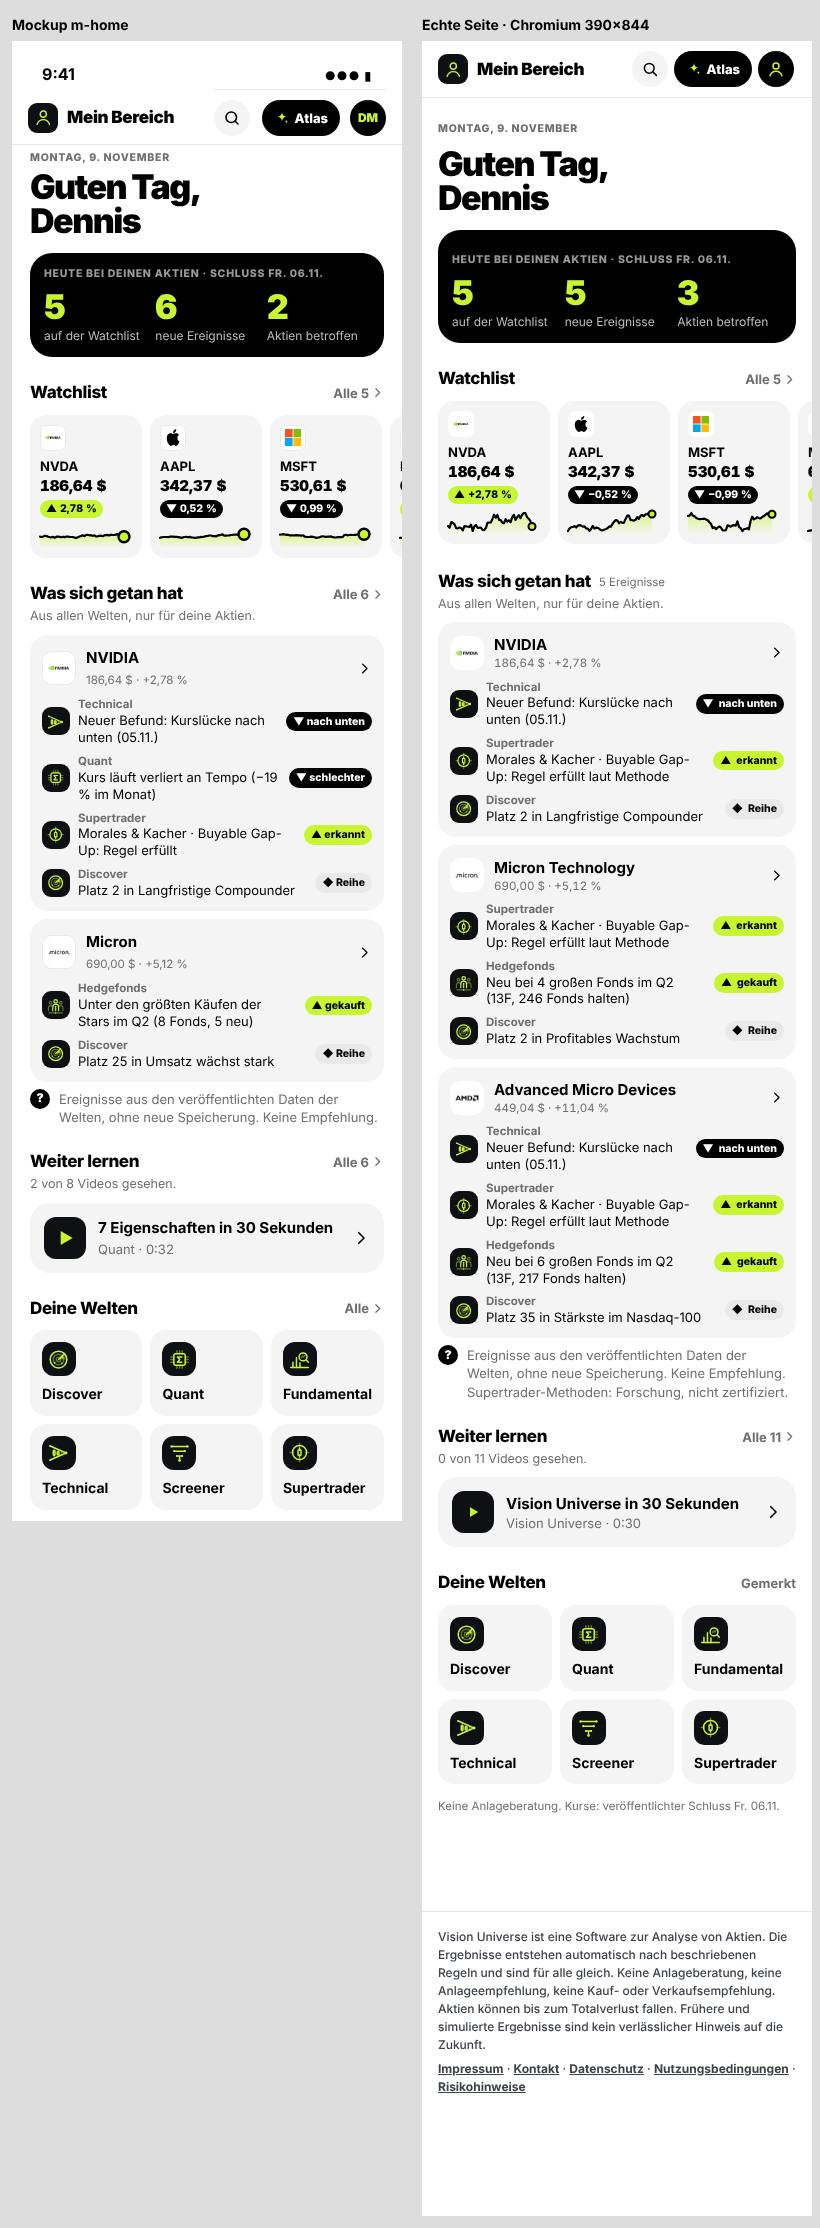
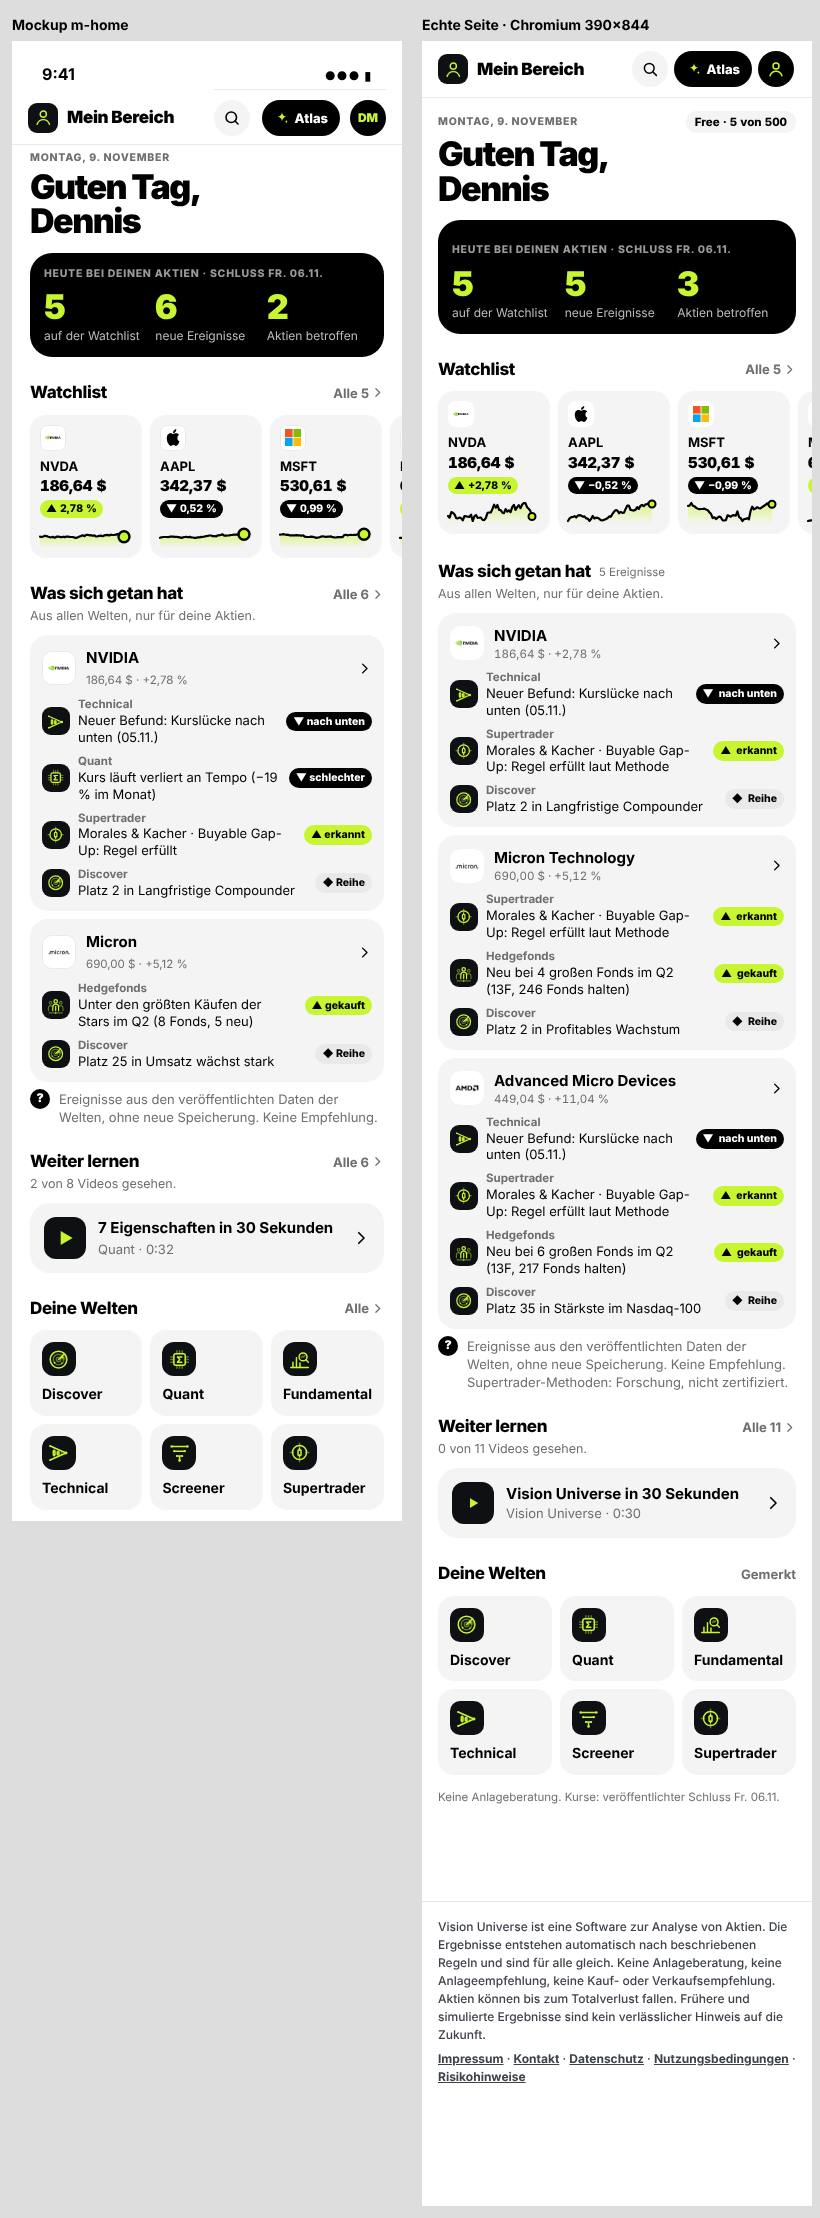
Mein Dashboard: Tarif-Marke und Entfernen mit Rückgängig im Bearbeiten-Modus; Konto-Reise auf den Streifen umgestellt
Claude-Session: https://claude.ai/code/session_01DVwZC4k9H5gNUZRveqEwG1

diff --git a/mein-dashboard/dashboard.js b/mein-dashboard/dashboard.js
@@ -184,6 +184,10 @@
     $('md-eyebrow').textContent = DAYS[now.getDay()] + ', ' + now.getDate() + '. ' + MONTHS[now.getMonth()];
     h.textContent = greeting(now.getHours()) + (name ? ',' : '');
     if (name) { h.appendChild(el('br')); h.appendChild(document.createTextNode(name)); }
+    // Tarif-Marke „Free · 5 von 500“ klein neben dem Datum (Entscheidung beim Bauen, HANDOVER).
+    var plan = (me.entitlements && me.entitlements.plan_id) || 'free', limit = ctx.limits && ctx.limits.items;
+    $('md-plan').textContent = ({free: 'Free', plus: 'Plus', pro: 'Pro'}[plan] || plan) + ' · ' + ctx.items.length + (limit ? ' von ' + limit : '');
+    $('md-plan').hidden = false;
   }});
 
   function views() {
@@ -234,12 +238,22 @@
       } else {
         card.appendChild(el('span', {className: 'md-wl-x', text: v.identity && v.identity.reasonText ? v.identity.reasonText : 'kein Kurs'}));
       }
-      strip.appendChild(el('li', {}, [card]));
+      var li = el('li', {}, [card]);
+      // Bearbeiten (Suche offen): „×“ entfernt eine Aktie, mit „Rückgängig“ wie bisher.
+      if (!$('md-find').hidden) {
+        var remove = el('button', {className: 'md-remove', type: 'button', 'aria-label': (v.ticker || 'Aktie') + ' aus der Watchlist entfernen', text: '×'});
+        remove.addEventListener('click', function () { removeItem(v, remove); });
+        li.appendChild(remove);
+      }
+      strip.appendChild(li);
     });
-    var add = el('button', {className: 'md-wl md-wl--add', type: 'button', 'aria-controls': 'md-find', 'aria-expanded': String(!$('md-find').hidden)}, [el('i', {text: '+', 'aria-hidden': 'true'}), 'Aktie hinzufügen']);
+    var editing = !$('md-find').hidden;
+    var add = el('button', {className: 'md-wl md-wl--add', type: 'button', id: 'md-edit', 'aria-controls': 'md-find', 'aria-expanded': String(editing)},
+      [el('i', {text: editing ? '✓' : '+', 'aria-hidden': 'true'}), editing ? 'Fertig' : 'Aktie hinzufügen', el('small', {text: editing ? '' : 'oder entfernen'})]);
     add.addEventListener('click', function () {
-      var f = $('md-find'); f.hidden = !f.hidden; add.setAttribute('aria-expanded', String(!f.hidden));
-      if (!f.hidden) $('md-add').focus();
+      $('md-find').hidden = editing;
+      render(['watchlist']);
+      if (!editing) $('md-add').focus(); else $('md-edit').focus();
     });
     strip.appendChild(el('li', {}, [add]));
   }});
@@ -291,6 +305,17 @@
     card.appendChild(chev(18));
   }});
 
+  function removeItem(v, btn) {
+    btn.disabled = true;
+    return A.post('/v1/watchlist/items/remove', {instrumentId: v.instrumentId}).then(function (r) {
+      btn.disabled = false;
+      if (!r.ok) return notice(A.message(r.state), 'error');
+      ctx.items = ctx.items.filter(function (i) { return i.instrumentId !== v.instrumentId; });
+      forgetButtonCache();
+      notice((v.ticker || 'Aktie') + ' entfernt.', 'ok', {label: 'Rückgängig', run: function () { addItem({instrumentId: v.instrumentId, ticker: v.ticker}); }});
+      return refresh();
+    });
+  }
   function addItem(hit, input) {
     return A.post('/v1/watchlist/items', {instrumentId: hit.instrumentId, ticker: hit.ticker}).then(function (r) {
       if (!r.ok) return notice(A.message(r.state), 'error');
@@ -301,7 +326,7 @@
   }
   // Nach einer Änderung der Watchlist: Kurse, Bewegungen und Ereignisse neu, dann alle Bereiche neu zeichnen.
   function refresh() {
-    return loadItems().then(loadSummary).then(loadEvents).then(function () { render(['today', 'watchlist', 'events', 'local']); });
+    return loadItems().then(loadSummary).then(loadEvents).then(function () { render(['greeting', 'today', 'watchlist', 'events', 'local']); });
   }
 
   // Leerzustand: beliebte Kuerzel als Chips, ein Tipp nimmt sie auf (gleicher Weg wie die Suche).

diff --git a/mein-dashboard/dashboard.css b/mein-dashboard/dashboard.css
@@ -109,3 +109,13 @@ html[data-md-view=gespeichert] .md-only-watch,html[data-md-view=watchlist] .md-o
 .md-play svg{width:18px;height:18px}
 :root[data-theme=dark] .md-today{background:var(--vu-card);box-shadow:inset 0 0 0 1px var(--vu-hair)}
 .md-find+.md-empty{margin-top:10px}
+.md-eyerow{display:flex;align-items:center;justify-content:space-between;gap:10px}
+.md-eyerow .vu-ltag{margin:0}
+.md-plan{flex:none;padding:3px 9px;border-radius:999px;background:var(--vu-card);font-size:11.5px;font-weight:800;font-variant-numeric:tabular-nums}
+html[data-md-view=gespeichert] .md-plan{display:none}
+.md-strip>li{position:relative}
+.md-remove{position:absolute;top:4px;right:4px;width:36px;height:36px;min-width:36px!important;min-height:36px!important;border:0;border-radius:50%;background:var(--vu-ink);color:var(--vu-inv);font:900 15px/1 var(--vu-font);cursor:pointer;display:grid;place-items:center}
+.md-remove::after{content:"";position:absolute;inset:-4px}
+.md-remove[disabled]{opacity:.6;cursor:wait}
+.md-remove:focus-visible{outline:2px solid var(--vu-focus-ring);outline-offset:2px}
+.md-wl--add small{font-size:11px;font-weight:600;color:var(--vu-mute)}

diff --git a/mein-dashboard/index.html b/mein-dashboard/index.html
@@ -19,7 +19,7 @@
      Watchlist-Streifen, Was sich getan hat, Weiter lernen, Deine Welten. Platz 2 der Leiste: Gespeichert unter #/gespeichert. -->
 <main class="ka md" id="main">
 <header class="md-head">
-<p class="vu-ltag" id="md-eyebrow">Mein Dashboard</p>
+<div class="md-eyerow"><p class="vu-ltag" id="md-eyebrow">Mein Dashboard</p><span class="md-plan" id="md-plan" hidden></span></div>
 <h1 class="vu-lt" id="md-hello">Mein Dashboard</h1>
 <p class="vu-lead md-only-saved">Was du in den Welten gemerkt hast. Übernimm es in deine Watchlist, dann ist es auf jedem Gerät da.</p>
 </header>

diff --git a/docs/accounts/NUTZERFUEHRUNG.md b/docs/accounts/NUTZERFUEHRUNG.md
@@ -9,7 +9,7 @@ Datenbank, keine neue Datenhaltung, Passwortmaske und Registrierung unverändert
 | Bereich | Adresse | Rolle | Inhalt |
 |---|---|---|---|
 | Willkommensseite | `/willkommen/` | Einstieg nach jeder Anmeldung, nach der E-Mail-Bestätigung und nach bestätigter Zahlung | unverändert: Video, Story-Videos, Produktwelten, Neuigkeiten. **Neu:** Zeile „Mein Dashboard“ (Watchlist und gespeicherte Aktien) direkt unter dem Video, daneben abgesetzt „Konto“; kurze Rückmeldung bei `?konto=verified` bzw. `?konto=pro` |
-| Mein Dashboard | `/mein-dashboard/` | persönlicher Investment-Bereich | Konzept [mein-bereich-2026-11](../design/mein-bereich-2026-11/HANDOVER.md), Screen `m-home`: Begrüßung mit Datum, „Heute bei deinen Aktien“ (auf der Watchlist, neue Ereignisse, Aktien betroffen), Watchlist als Streifen (hinzufügen über „+ Aktie“, Link zur Aktie; entfernen in der Detailansicht), „Was sich getan hat“ (Ereignisse der Welten je Aktie), „Weiter lernen“ (nächstes ungesehenes Video der Willkommensseite), „Deine Welten“; unter `#/gespeichert` „Auf diesem Gerät gemerkt“ (lokale Listen, Übernahme auf Klick) |
+| Mein Dashboard | `/mein-dashboard/` | persönlicher Investment-Bereich | Konzept [mein-bereich-2026-11](../design/mein-bereich-2026-11/HANDOVER.md), Screen `m-home`: Begrüßung mit Datum, „Heute bei deinen Aktien“ (auf der Watchlist, neue Ereignisse, Aktien betroffen), Tarif-Marke, Watchlist als Streifen (Link zur Aktie; „+ Aktie hinzufügen oder entfernen“ öffnet Suche und „×“ mit Rückgängig), „Was sich getan hat“ (Ereignisse der Welten je Aktie), „Weiter lernen“ (nächstes ungesehenes Video der Willkommensseite), „Deine Welten“; unter `#/gespeichert` „Auf diesem Gerät gemerkt“ (lokale Listen, Übernahme auf Klick) |
 | Mein Konto | `/konto/` | Einstellungen und Vertrag | persönliche Daten, E-Mail, Passwort und Sicherheit, Tarif, Abonnement, Rechnungen, Zahlungsmethoden (Kundenportal), Kündigung, Datenschutz und Datenexport |
 
 `/dashboard/` ist das bestehende Research-Dashboard (V6.3) und bleibt unverändert; deshalb liegt der persönliche Bereich unter

diff --git a/docs/design/mein-bereich-2026-11/HANDOVER.md b/docs/design/mein-bereich-2026-11/HANDOVER.md
@@ -133,7 +133,8 @@ Entscheidung 11.
 - Supertrader zeigt die quellentreuen Methoden, deren Regel am Stichtag neu erfüllt ist (`changes.added`, Umstufung auf „Regel erfüllt“/„Plan fertig“), ohne die Short-Methode; der Hinweis darunter sagt „Forschung, nicht zertifiziert“.
 - Hedgefonds (13F, Quartal) und Discover (Reihe heute) haben kein Tagesdatum: Sie stehen nur als Zusatzzeile auf einer Karte mit einem Ereignis von heute und zählen nicht bei „neue Ereignisse“ (sonst hätte fast jede große Aktie täglich eine Karte).
 - „Alle N“ bei „Was sich getan hat“ ist eine Zahl ohne Link, weil es keine eigene Ereignis-Seite gibt; „Alle“ bei der Watchlist führt zur Detailansicht `/konto/watchlist/`, bei „Weiter lernen“ zur Willkommensseite.
-- Hinzufügen bleibt als letzte Karte „+ Aktie hinzufügen“ im Streifen (öffnet die Suche); Entfernen liegt in der Detailansicht, der Leerzustand behält Suche und „Beliebt zum Start“.
+- Hinzufügen und Entfernen bleiben auf dem Dashboard: Die letzte Karte im Streifen „+ Aktie hinzufügen oder entfernen“ öffnet die Suche und zeigt auf jeder Karte ein „×“ (mit „Rückgängig“); der Leerzustand behält Suche und „Beliebt zum Start“.
+- Die Tarif-Marke („Free · 5 von 500“) bleibt klein rechts neben dem Datum, weil Konto-Reise und Nutzer den Tarif dort erwarten.
 - „Weiter lernen“ öffnet `/willkommen/`, weil die Willkommensseite unverändert bleibt und kein Video direkt verlinkt.
 
 ## Master-Prompt (in einen neuen Claude-Code-Chat einfügen)
